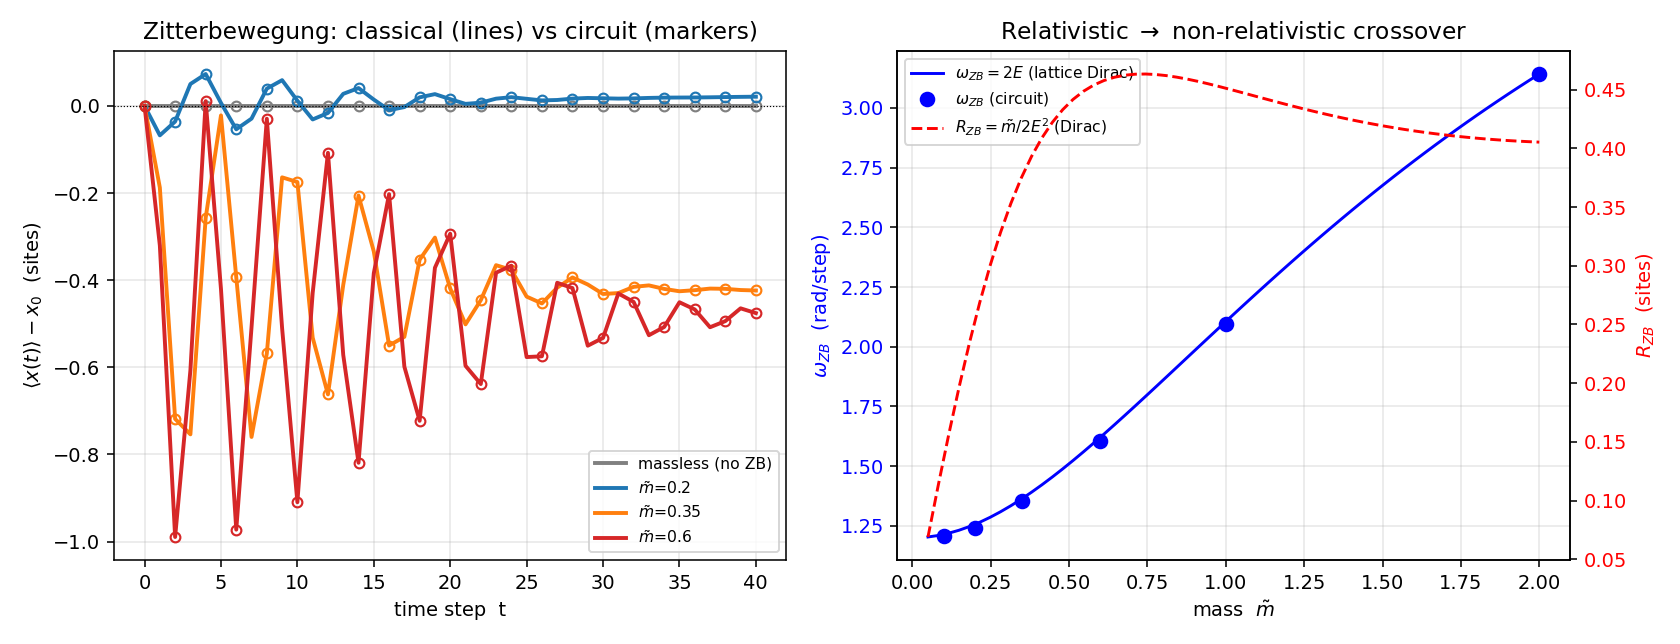
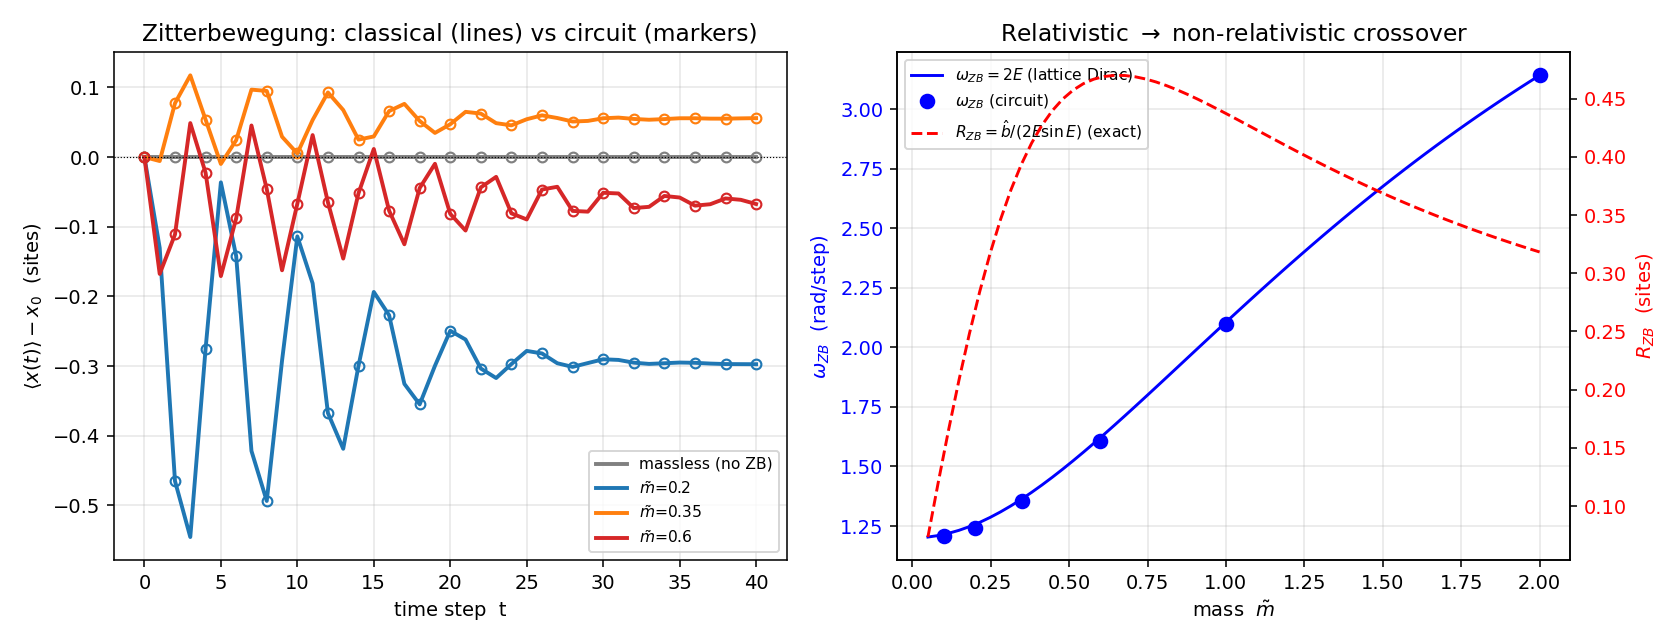
plot_validation_zitterbewegung: exact R_ZB=bhat/(2E sinE) amplitude curve (was leading-order m/2E^2); regenerate figure on qiskit/aer-gpu

diff --git a/qlb_port/plot_validation_zitterbewegung.py b/qlb_port/plot_validation_zitterbewegung.py
@@ -17,13 +17,15 @@ Physics (1+1D, lattice units, hbar = c = dx = dt = 1).  The one-step Bloch symbo
 is ``U(k) = R . diag(e^{-i k s_c}) . Q_char(m) . R^{-1}`` with per-component streaming
 signs ``s_c``; its eigenphases are ``+/- E(k)`` with the Dirac dispersion
 
-    E(k) = sqrt( sin^2 k + m~^2 ) .
+    cos E(k) = ahat * cos k,   ahat = (1 - m~^2/4)/(1 + m~^2/4)   (exact lattice dispersion;
+                             -> sqrt(sin^2 k + m~^2) for small k, m~) .
 
 A packet that mixes the +E and -E eigenmodes at a carrier k0 shows Zitterbewegung with
 
-    omega_ZB = 2 E(k0)        (trembling frequency)
-    R_ZB     = m~ / (2 E^2)   (trembling amplitude in position; = A_v / omega_ZB,
-                               with velocity amplitude A_v = |<+|alpha_x|->| = m~/E)
+    omega_ZB = 2 E(k0)              (trembling frequency)
+    R_ZB     = bhat / (2 E sin E)   (trembling amplitude in position; = A_v / omega_ZB, with
+                                     velocity amplitude A_v = |<+|alpha_x|->| = bhat/sin E and
+                                     bhat = m~/(1 + m~^2/4); -> m~/2E^2 and m~/E for small m~)
 
 so a massless packet ([alpha_x, H] = 0) does not tremble, and increasing the mass at fixed
 momentum raises omega_ZB and moves R_ZB through its maximum -- the crossover.
@@ -178,13 +180,15 @@ def main():
     mm = np.array([r[0] for r in rows[1:]]); wq = np.array([r[2] for r in rows[1:]])
     mg = np.linspace(0.05, 2.0, 60)
     Eg = np.array([energy_eigenmodes(K0, mmg)[2] for mmg in mg])   # exact lattice dispersion
+    bg = np.array([abs(ops.collision_coefficients(mmg, 0.0)[1]) for mmg in mg])  # bhat(m~)
     axB.plot(mg, 2 * Eg, "b-", label=r"$\omega_{ZB}=2E$ (lattice Dirac)")
     axB.plot(mm, wq, "bo", ms=7, label=r"$\omega_{ZB}$ (circuit)")
     axB.set_xlabel(r"mass  $\tilde m$"); axB.set_ylabel(r"$\omega_{ZB}$  (rad/step)", color="b")
     axB.tick_params(axis="y", labelcolor="b")
     axB.set_title(r"Relativistic $\to$ non-relativistic crossover")
     ax2 = axB.twinx()
-    ax2.plot(mg, mg / (2 * Eg ** 2), "r--", label=r"$R_{ZB}=\tilde m/2E^2$ (Dirac)")
+    ax2.plot(mg, bg / (2 * Eg * np.sin(Eg)), "r--",
+             label=r"$R_{ZB}=\hat b/(2E\sin E)$ (exact)")
     ax2.set_ylabel(r"$R_{ZB}$  (sites)", color="r"); ax2.tick_params(axis="y", labelcolor="r")
     h1, l1 = axB.get_legend_handles_labels(); h2, l2 = ax2.get_legend_handles_labels()
     axB.legend(h1 + h2, l1 + l2, fontsize=8, loc="upper left"); axB.grid(alpha=0.3)
